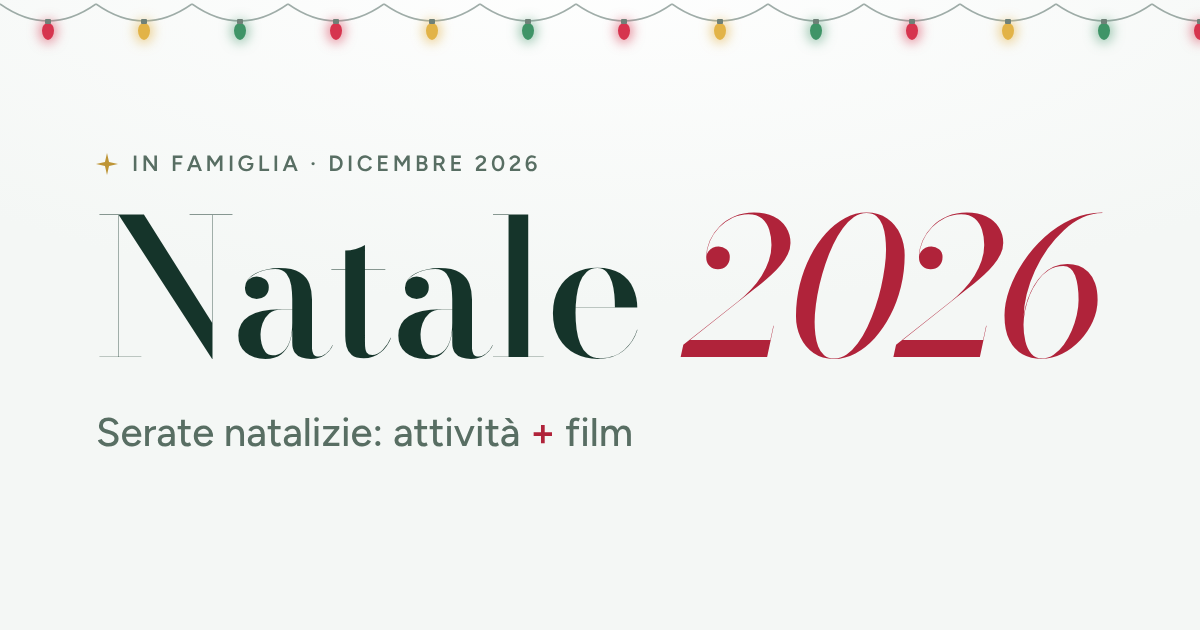
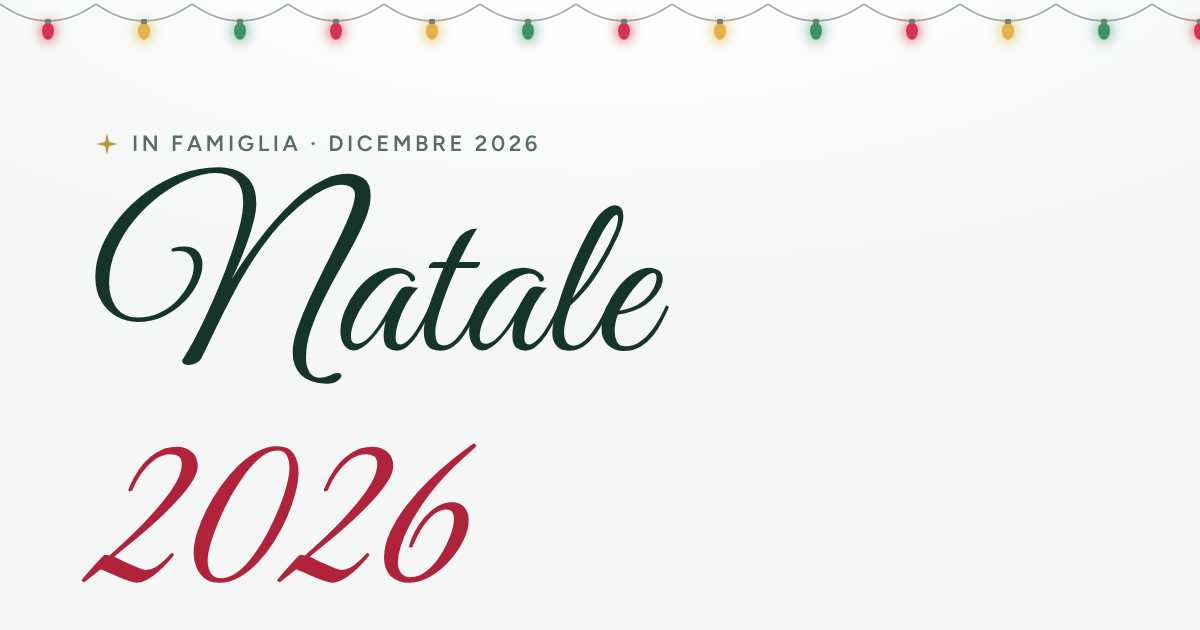
Titolo di Natale 2026 in corsivo Great Vibes
Cambia il font del titolo in cima alla pagina e aggiorna di
conseguenza l'immagine di anteprima dei link.

Claude-Session: https://claude.ai/code/session_01Y8Up8vVyzZTKRDbjbX9qLJ

Changed region(s): [[0.0617, 0.2111, 0.925, 0.6333], [0.0617, 0.6635, 0.5242, 0.9349], [0.8942, 0.4222, 0.925, 0.5429]]

diff --git a/natale-2026/index.html b/natale-2026/index.html
@@ -18,7 +18,7 @@
 <link rel="apple-touch-icon" href="apple-touch-icon.png">
 <link rel="preconnect" href="https://fonts.googleapis.com">
 <link rel="preconnect" href="https://fonts.gstatic.com" crossorigin>
-<link rel="stylesheet" href="https://fonts.googleapis.com/css2?family=Bodoni+Moda:ital,opsz,wght@0,6..96,400..700;1,6..96,400..700&family=Figtree:wght@400;500;600;700&display=swap">
+<link rel="stylesheet" href="https://fonts.googleapis.com/css2?family=Bodoni+Moda:ital,opsz,wght@0,6..96,400..700;1,6..96,400..700&family=Figtree:wght@400;500;600;700&family=Great+Vibes&display=swap">
 <style>
 :root {
   /* Layout: testata con titolo grande e conto alla rovescia; sotto, modulo (sticky) a sinistra ed elenco delle serate a destra, una sola colonna sotto 880px. Ghirlanda di luci in cima, neve leggera sullo sfondo. */
@@ -47,6 +47,7 @@
   --alone-verde: rgba(63, 148, 103, 0.5);
   --chiarore: #FFFFFF;
   --ombra: 0 1px 2px rgba(21, 52, 42, 0.05), 0 18px 40px -20px rgba(21, 52, 42, 0.28);
+  --f-corsivo: "Great Vibes", "Snell Roundhand", "Apple Chancery", cursive;
   --f-titolo: "Bodoni Moda", "Bodoni 72", Didot, "Times New Roman", serif;
   --f-testo: "Figtree", "Segoe UI", system-ui, -apple-system, sans-serif;
   --raggio: 16px;
@@ -151,15 +152,16 @@ body {
 .occhiello svg { color: var(--oro); flex: none; }
 .titolo {
   margin: 0;
-  font-family: var(--f-titolo);
-  font-weight: 500;
-  font-size: clamp(3.3rem, 11.5vw, 8.4rem);
-  line-height: 0.92;
-  letter-spacing: -0.025em;
+  padding-left: 0.04em;
+  font-family: var(--f-corsivo);
+  font-weight: 400;
+  font-size: clamp(4rem, 14vw, 9.8rem);
+  line-height: 1.05;
+  letter-spacing: 0;
+  word-spacing: 0.16em;
   text-wrap: balance;
-  font-optical-sizing: auto;
 }
-.titolo em { font-style: italic; font-weight: 400; color: var(--mirtillo); letter-spacing: -0.01em; }
+.titolo em { font-style: normal; color: var(--mirtillo); }
 .sottotitolo {
   margin: 22px 0 0;
   font-size: clamp(1.08rem, 2.1vw, 1.4rem);
